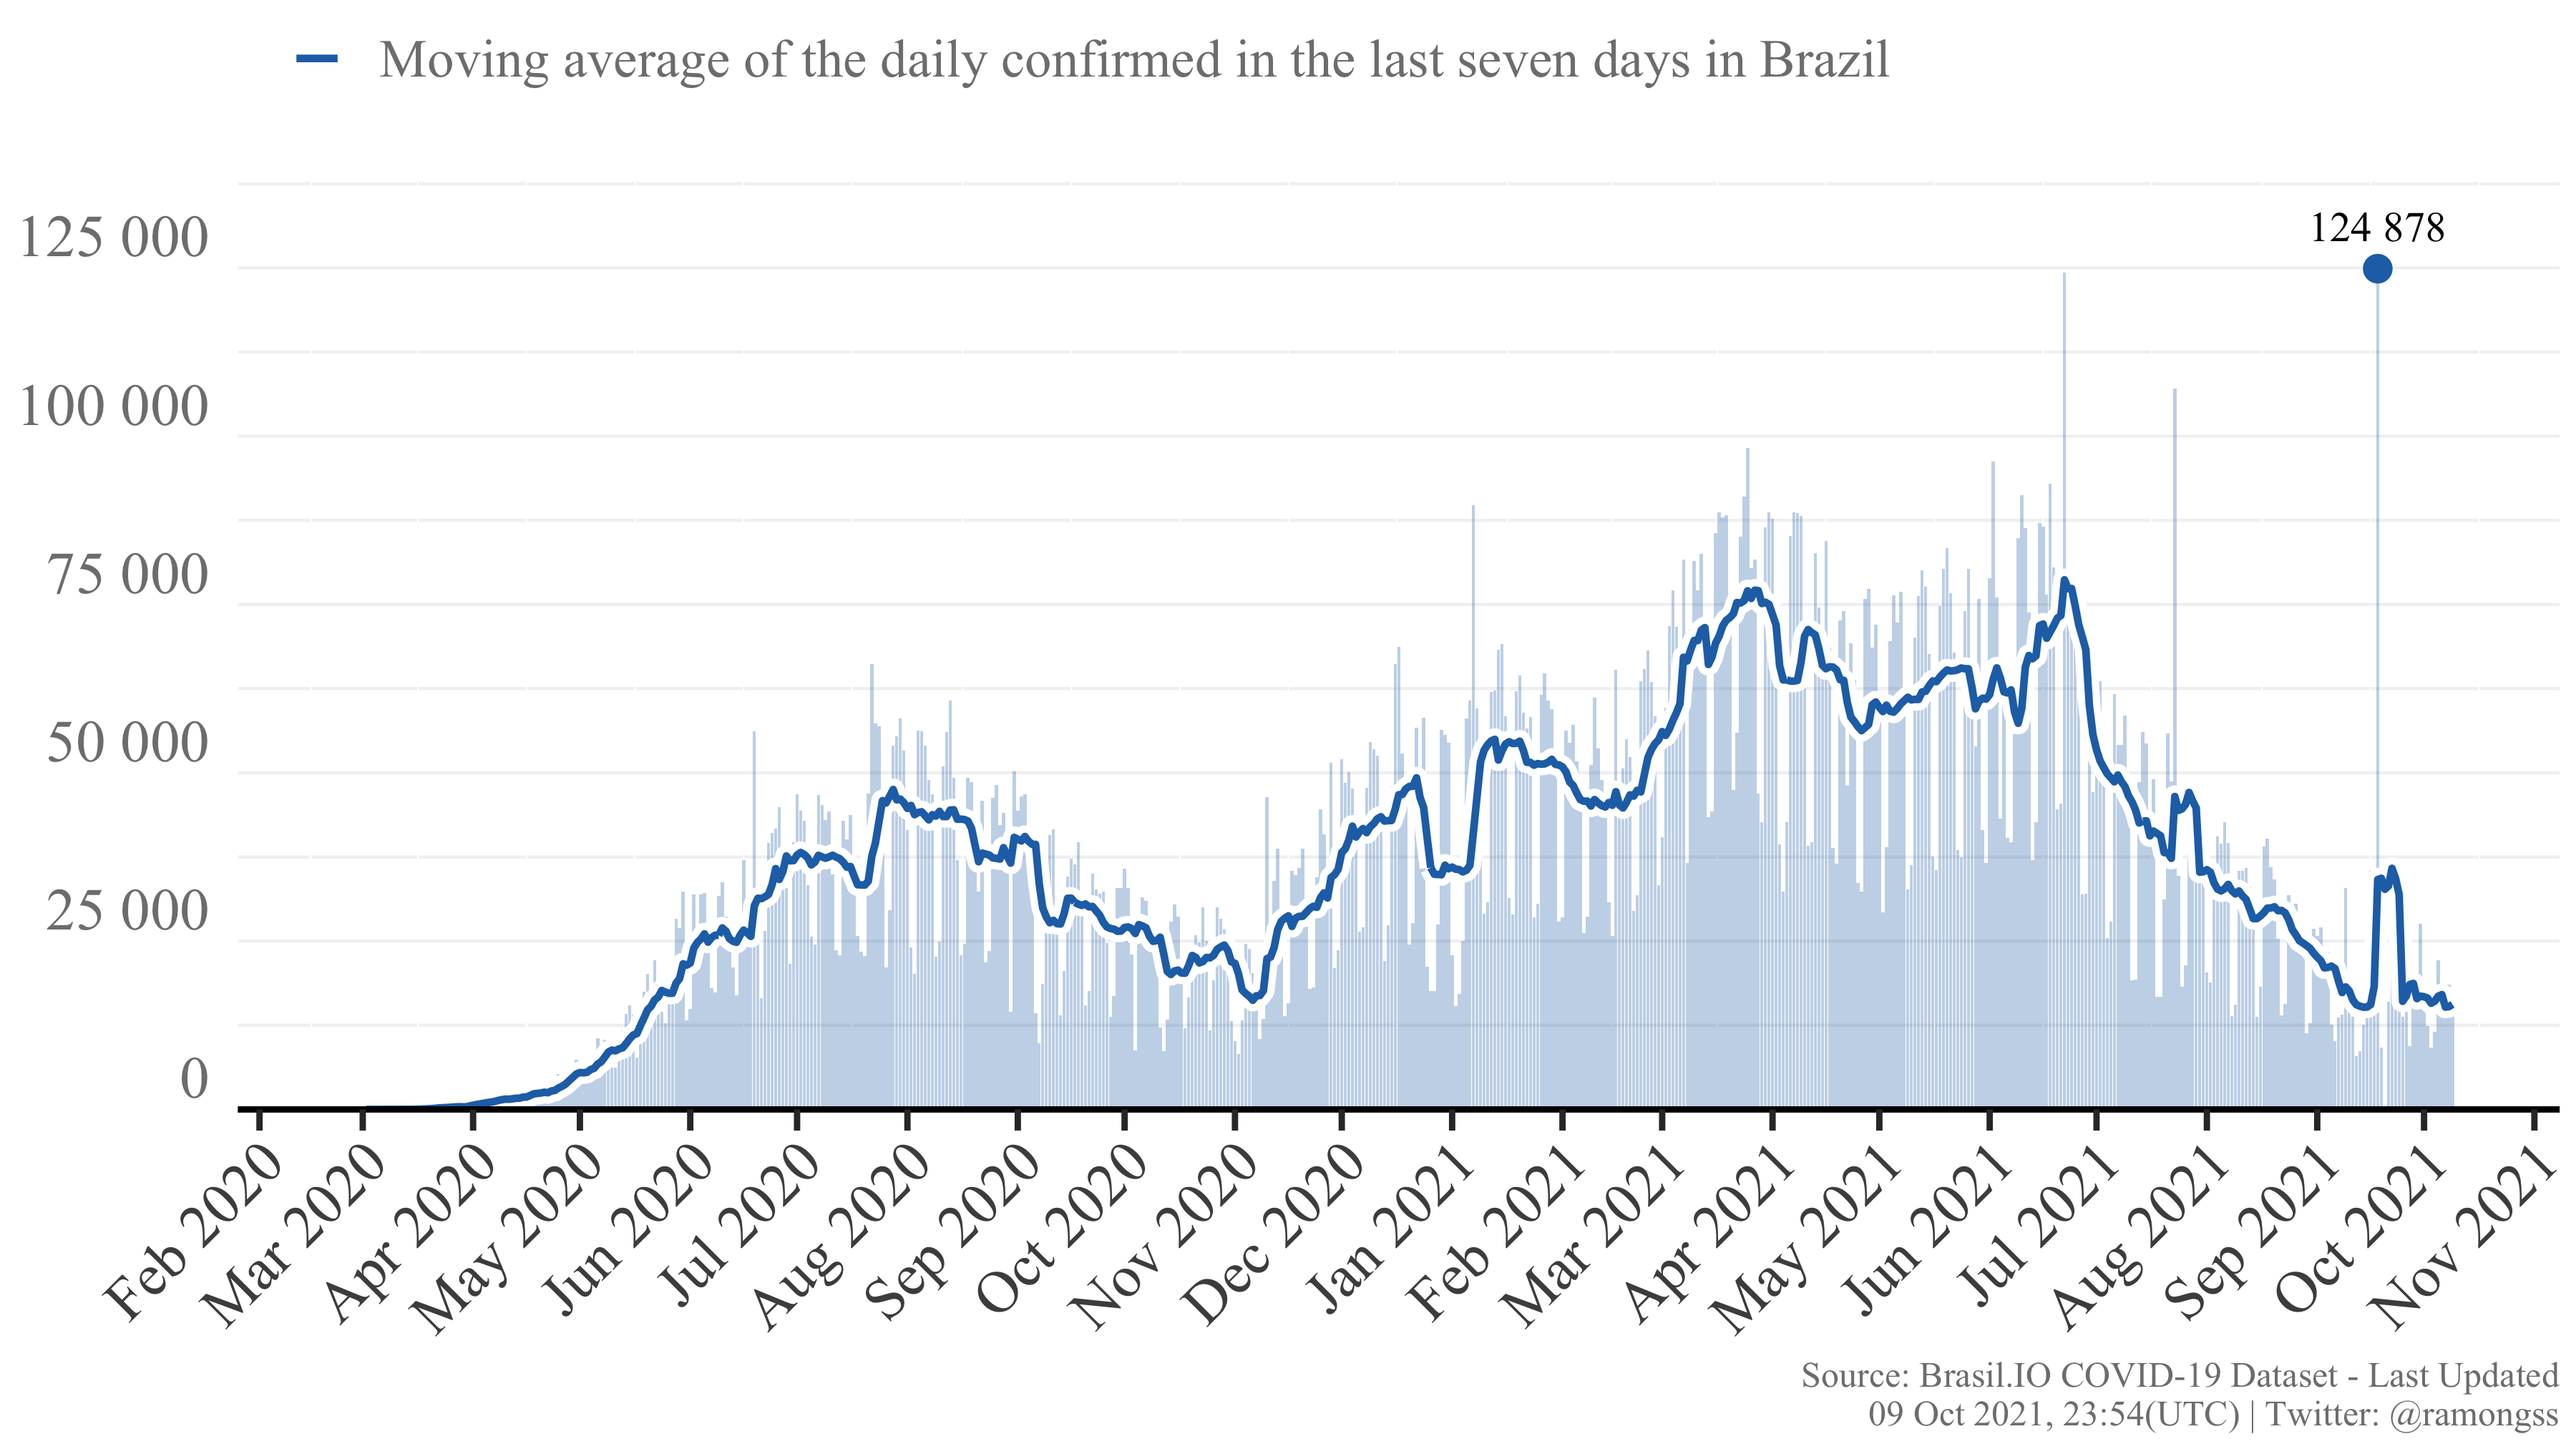
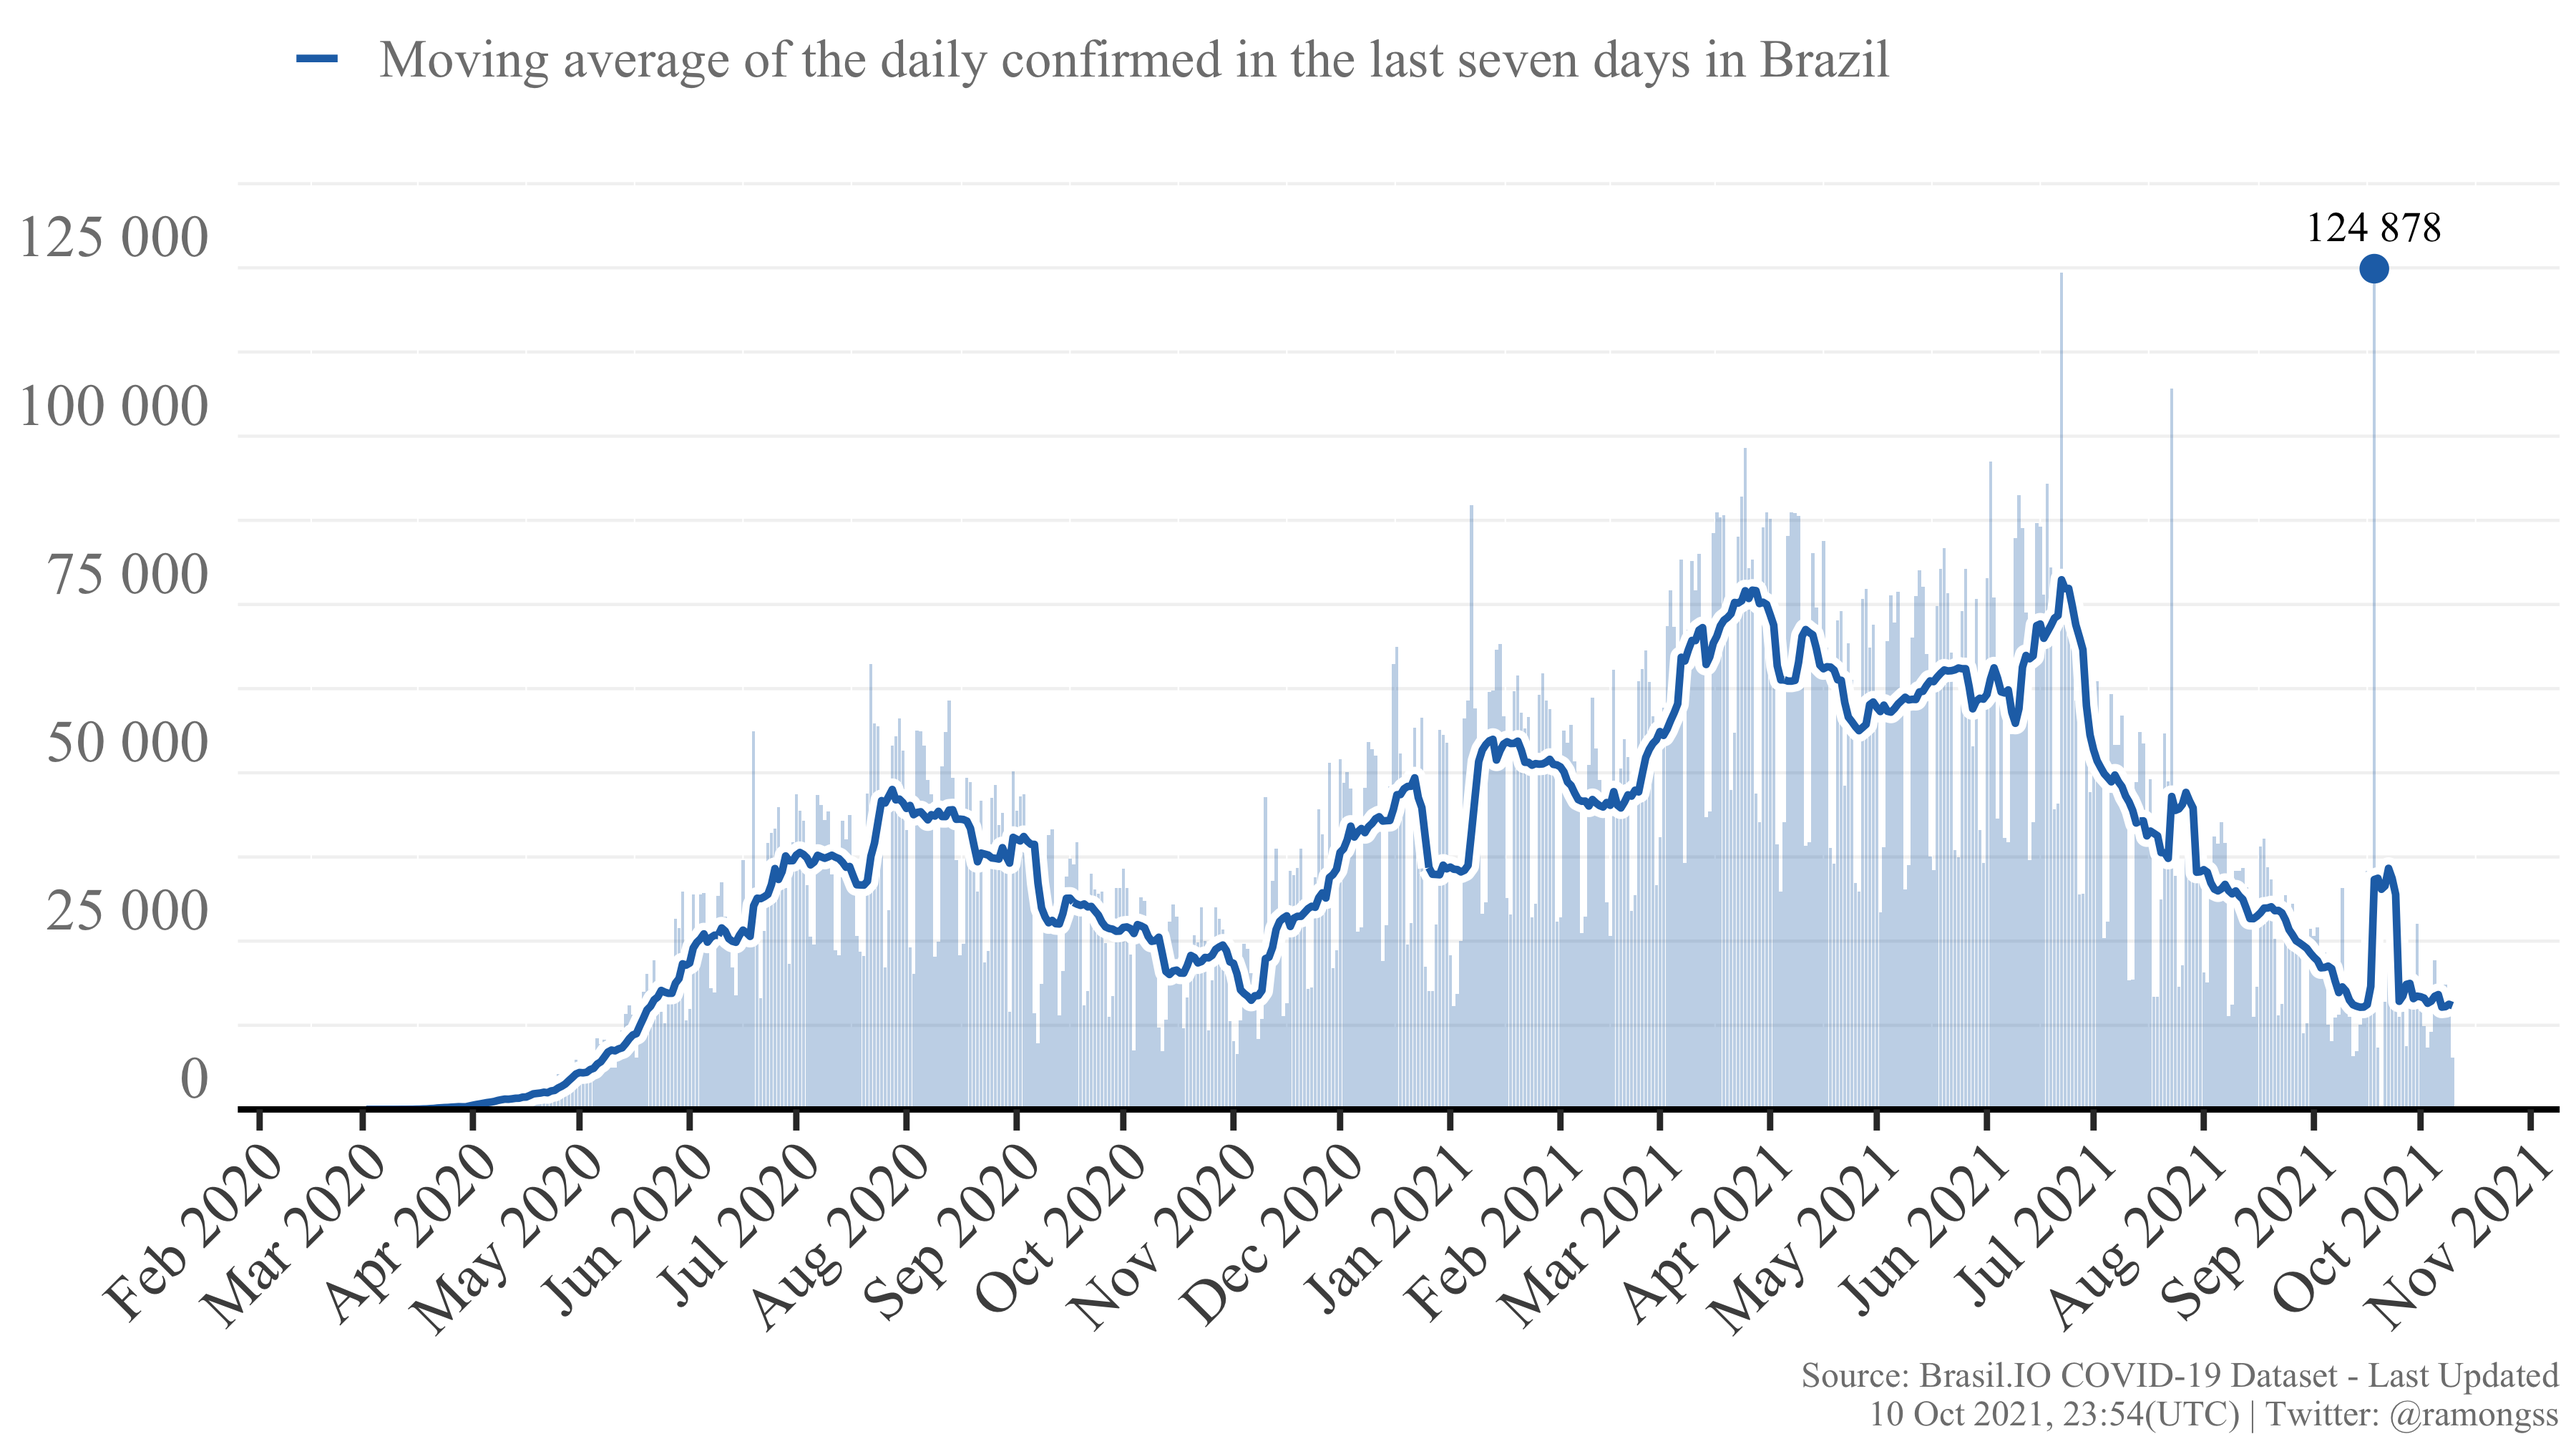
Re-build README.Rmd

diff --git a/README.md b/README.md
@@ -27,8 +27,8 @@ download_brasilio_table <- function(dataset = "covid19", table_name){
 
 ## COVID-19 Confirmed cases
 
-Currently, Brazil has a total of **21,572,020** confirmed cases at **09
-Oct, 2021**, with **14,701** new confirmed cases. The daily maximum
+Currently, Brazil has a total of **21,579,856** confirmed cases at **10
+Oct, 2021**, with **7,733** new confirmed cases. The daily maximum
 incidence was **124,878** confirmed cases at **18 Sep, 2021**. Here
 follows the Figure showing the confirmed case incidence as the bars, and
 the line as the moving average of the last 7 days.
@@ -37,8 +37,8 @@ the line as the moving average of the last 7 days.
 
 ## COVID-19 Deaths
 
-Currently, Brazil has a total of **601,134** deaths at **09 Oct, 2021**,
-with **418** new deaths. The daily maximum deaths incidence was
+Currently, Brazil has a total of **601,273** deaths at **10 Oct, 2021**,
+with **139** new deaths. The daily maximum deaths incidence was
 **4,148** deaths at **08 Apr, 2021**. Here follows the Figure showing
 the deaths incidence as the bars, and the line as the moving average of
 the last 7 days.
@@ -49,4 +49,4 @@ the last 7 days.
 
 This page is daily updated automatically using Github Actions.
 
-*Last update: 09 Oct 2021, 23:54 (UTC).*
+*Last update: 10 Oct 2021, 23:54 (UTC).*
